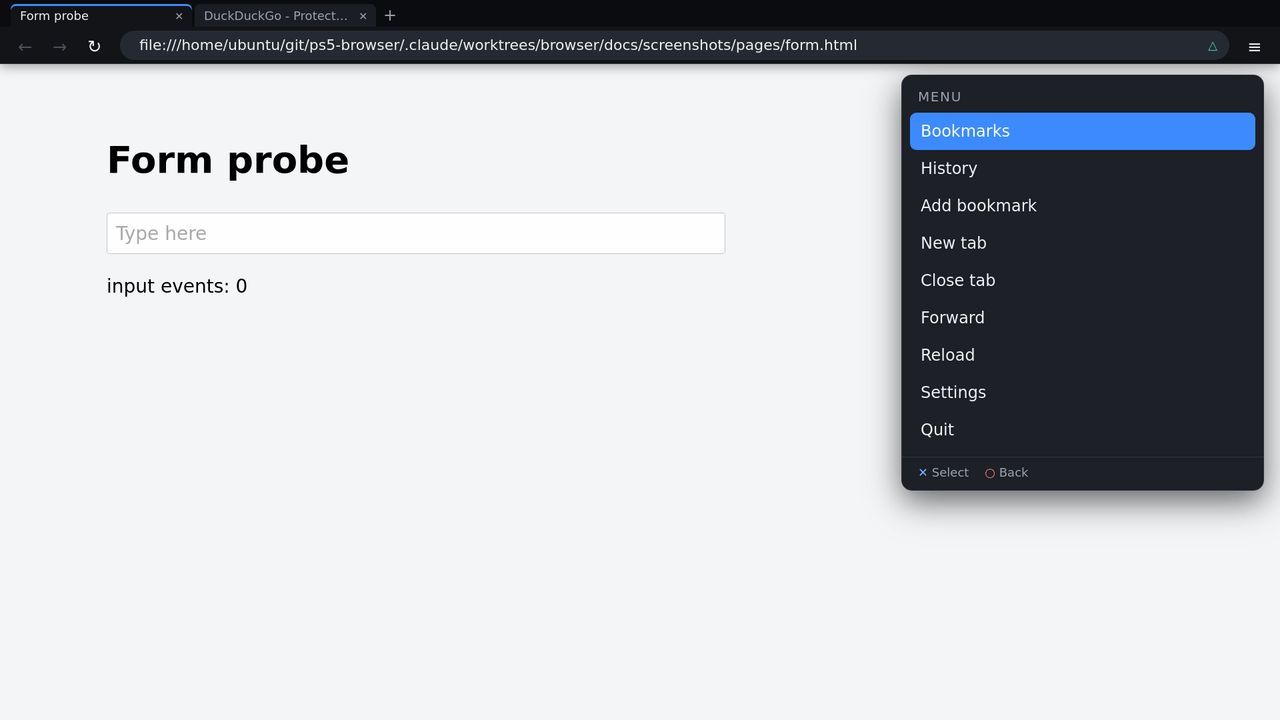
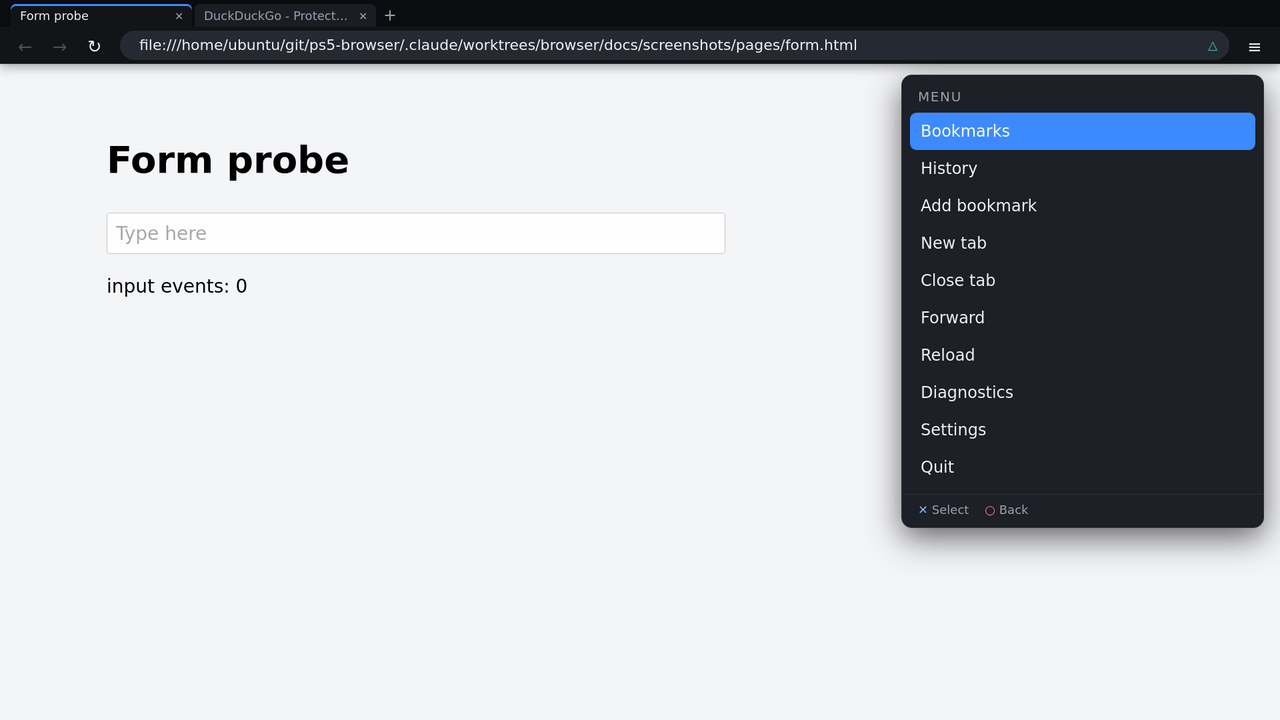
fix(ps5): deliver pointer clicks to the chrome view
Chrome: Cross over the band now activates the element under the pointer
through chrome.js click(x, y) (elementFromPoint + element.click(), the
path the host frontend already uses, also covering the address field)
instead of a synthesized press/release on the chrome WKView, which
produced no click on the console. A trusted move still precedes it for
:hover. chrome.js reports each activation and the frontend logs the
first ones ("chrome: click at x,y -> handler (target)").

Page: the shell sends move, press and release (clickCount 1) for Cross,
but patch 0011's WKPageHandleMouseEvent built libwpe events with time 0
and no button bits. libwpe's WebEventFactory derives clickCount from
the time, so every press within 5 px of the previous one counted as a
double/triple click (word/paragraph selection, the "selection works"
symptom), and mousedown reported buttons == 0. Events now carry a
monotonic time and the pressed-button state, as the WPE backends send.

For the next console run the page logs the first DOM pointerdown/
mousedown/mouseup/click/focusin events (target, detail, buttons,
isTrusted, defaultPrevented, activeElement) and the first presses and
releases it sends, to tell whether a click is generated and what gets
focus.

Assisted-by: LLM

Changed region(s): [[0.6875, 0.6417, 1.0, 0.7944], [0.7188, 0.5806, 0.7812, 0.6111], [0.7188, 0.5194, 0.7812, 0.55]]

diff --git a/src/chrome-ui/chrome.js b/src/chrome-ui/chrome.js
@@ -180,14 +180,26 @@
   }
 
   // Gamepad Cross over the chrome: activate the element under the pointer.
+  function describe(el) {
+    if (!el) return 'nothing';
+    var d = el.tagName.toLowerCase();
+    if (el.id) d += '#' + el.id;
+    var owner = el.closest('[id]');
+    if (owner && owner !== el) d += ' in #' + owner.id;
+    return d;
+  }
+
   function click(x, y) {
     var target = document.elementFromPoint(x, y);
-    if (!target) return;
-    if (target === $('address') || target.closest('#address-form')) {
+    var handler = !target ? 'none'
+      : (target === $('address') || target.closest('#address-form')) ? 'address_focus' : 'click';
+    // Frontends may log this; the shell ignores the type.
+    send({ type: 'click_trace', x: x, y: y, target: describe(target), handler: handler });
+    if (handler === 'address_focus') {
       send({ type: 'address_focus' });
-      return;
+    } else if (target) {
+      target.click();
     }
-    target.click();
   }
 
   // ---- Wiring ------------------------------------------------------------

diff --git a/src/frontend/ps5/ps5_chrome_ui.cpp b/src/frontend/ps5/ps5_chrome_ui.cpp
@@ -12,6 +12,8 @@ namespace ps5browser::frontend {
 
 namespace {
 
+constexpr int kClicksToLog = 8;
+
 // Shown when chrome.html is missing or fails to load: the active tab's title
 // and URL in the band, a pointer ring, and a hint to reinstall the chrome.
 // Gamepad shortcuts keep working; the controls of the real chrome do not.
@@ -58,9 +60,25 @@ Ps5ChromeUi::Ps5ChromeUi(WKContextRef context, WKWebsiteDataStoreRef data_store,
       return;
     }
     nlohmann::json doc = nlohmann::json::parse(json, nullptr, /*allow_exceptions=*/false);
-    if (!doc.is_discarded()) {
-      on_event_(doc);
+    if (doc.is_discarded()) {
+      return;
     }
+    const std::string type = doc.is_object() ? doc.value("type", std::string()) : std::string();
+    if (type == "click_trace") {
+      // chrome.js reports what a click activated; log the first few.
+      if (clicks_logged_ < kClicksToLog) {
+        ++clicks_logged_;
+        log_printf("chrome: click at %d,%d -> %s (%s)", doc.value("x", -1), doc.value("y", -1),
+                   doc.value("handler", std::string("?")).c_str(),
+                   doc.value("target", std::string("?")).c_str());
+      }
+      return;
+    }
+    if (!first_event_logged_) {
+      first_event_logged_ = true;
+      log_printf("chrome: first event from the chrome: %s", type.c_str());
+    }
+    on_event_(doc);
   };
   cb.load_finished = []() { log_line("chrome: navigation finished"); };
   cb.load_failed = [this](const std::string& url, const std::string& error) {
@@ -102,12 +120,19 @@ void Ps5ChromeUi::render(const nlohmann::json& state) {
 }
 
 void Ps5ChromeUi::click(int x, int y) {
-  // Window coordinates == chrome-local coordinates (the chrome view spans the
-  // whole surface). A synthesized click is acceptable here: this is our own UI
-  // and page input never goes through this path.
+  // Window coordinates == chrome-local CSS pixels (the chrome view spans the
+  // whole surface at scale 1). The trusted move keeps :hover right; the
+  // activation goes through chrome.js click(x, y) (elementFromPoint +
+  // element.click(), the path the host frontend uses), which does not depend
+  // on WebCore turning a synthesized press/release into a click and handles
+  // the address field. This is our own UI: user activation is not needed.
   web_->pointer_move(x, y);
-  web_->pointer_button(x, y, kWKEventMouseButtonLeftButton, true);
-  web_->pointer_button(x, y, kWKEventMouseButtonLeftButton, false);
+  web_->run_javascript("window.ps5chrome && window.ps5chrome.click(" + std::to_string(x) + "," +
+                       std::to_string(y) + ")");
+  if (clicks_logged_ < kClicksToLog && fallback_loaded_) {
+    ++clicks_logged_;
+    log_printf("chrome: click at %d,%d -> fallback chrome (no controls)", x, y);
+  }
 }
 
 }  // namespace ps5browser::frontend

diff --git a/src/frontend/ps5/ps5_app.cpp b/src/frontend/ps5/ps5_app.cpp
@@ -20,6 +20,41 @@ namespace ps5browser::frontend {
 
 namespace {
 
+// Console diagnostics: reports the first DOM pointer events of each document
+// (type, target, detail, buttons, isTrusted, defaultPrevented) through the
+// "ps5browser" handler as {type: 'input_trace'}; Ps5EngineView logs them.
+// Shows whether a press/release pair became a click and what got focus.
+constexpr const char* kInputTraceScript = R"JS((function () {
+  'use strict';
+  if (window !== window.top) return;
+  var left = 24;
+  function desc(e) {
+    if (!e || !e.tagName) return String(e && e.nodeName);
+    var d = e.tagName.toLowerCase();
+    if (e.id) d += '#' + e.id;
+    return d;
+  }
+  ['pointerdown', 'mousedown', 'mouseup', 'click', 'dblclick', 'focusin'].forEach(function (t) {
+    document.addEventListener(t, function (ev) {
+      if (left <= 0) return;
+      left--;
+      var target = ev.target;
+      setTimeout(function () {
+        try {
+          window.webkit.messageHandlers.ps5browser.postMessage({
+            type: 'input_trace', ev: t, target: desc(target),
+            x: ev.clientX === undefined ? -1 : ev.clientX, y: ev.clientY === undefined ? -1 : ev.clientY,
+            detail: ev.detail === undefined ? -1 : ev.detail, buttons: ev.buttons === undefined ? -1 : ev.buttons,
+            trusted: ev.isTrusted, prevented: ev.defaultPrevented,
+            active: desc(document.activeElement)
+          });
+        } catch (e) {}
+      }, 0);
+    }, true);
+  });
+})();
+)JS";
+
 constexpr const char* kBaseDir = kPs5DataDir;
 constexpr std::uint32_t kFrameMs = 16;  // ~60 Hz
 
@@ -173,7 +208,8 @@ int Ps5App::run() {
 
   std::vector<std::string> user_scripts = {core::kEmeDetectorScript,
                                            core::kFocusReporterScript,
-                                           core::kGamepadKeyBridgeScript};
+                                           core::kGamepadKeyBridgeScript,
+                                           kInputTraceScript};
   factory_ = std::make_unique<Ps5EngineFactory>(kBaseDir, user_scripts,
                                                 config_.user_agent);
   log_line("WebKit: context and data store created");

diff --git a/src/frontend/ps5/ps5_engine_view.cpp b/src/frontend/ps5/ps5_engine_view.cpp
@@ -12,11 +12,14 @@
 
 #include <nlohmann/json.hpp>
 
+#include "ps5_log.h"
 #include "wk_helpers.h"
 
 namespace ps5browser::frontend {
 
 namespace {
+
+constexpr int kButtonsToLog = 16;
 
 int to_wk_mouse_button(shell::MouseButton b) {
   switch (b) {
@@ -118,7 +121,12 @@ Ps5EngineView::Ps5EngineView(shell::EngineViewClient& client, WKContextRef conte
     // everything else (EME reports, ...) goes to the shell as is.
     const auto msg = nlohmann::json::parse(json, nullptr, /*allow_exceptions=*/false);
     const auto type = msg.is_object() ? msg.find("type") : msg.end();
+    if (type != msg.end() && *type == "input_trace") {
+      log_printf("page: dom %s", json.c_str());
+      return;
+    }
     if (type != msg.end() && *type == "focus") {
+      log_printf("page: focus report %s", json.c_str());
       const auto editable = msg.find("editable");
       client_.text_input_focused(editable != msg.end() && editable->is_boolean() &&
                                  editable->get<bool>());
@@ -145,6 +153,10 @@ void Ps5EngineView::set_visible(bool v) { web_->set_visible(v); }
 void Ps5EngineView::pointer_move(int x, int y) { web_->pointer_move(x, y); }
 
 void Ps5EngineView::pointer_button(int x, int y, shell::MouseButton button, bool pressed) {
+  if (buttons_logged_ < kButtonsToLog) {
+    ++buttons_logged_;
+    log_printf("page: %s at %d,%d", pressed ? "press" : "release", x, y);
+  }
   web_->pointer_button(x, y, to_wk_mouse_button(button), pressed);
 }
 

diff --git a/src/frontend/ps5/ps5_engine_view.h b/src/frontend/ps5/ps5_engine_view.h
@@ -47,6 +47,7 @@ class Ps5EngineView final : public shell::EngineView {
  private:
   shell::EngineViewClient& client_;
   std::unique_ptr<WkWebView> web_;
+  int buttons_logged_ = 0;  // console diagnostics: the first presses/releases
 };
 
 // Creates web-content views sharing one WKContext and website data store.

diff --git a/src/frontend/ps5/ps5_chrome_ui.h b/src/frontend/ps5/ps5_chrome_ui.h
@@ -41,6 +41,8 @@ class Ps5ChromeUi final : public shell::ChromeUi {
   EventHandler on_event_;
   std::unique_ptr<WkWebView> web_;
   bool fallback_loaded_ = false;
+  int clicks_logged_ = 0;
+  bool first_event_logged_ = false;
 };
 
 }  // namespace ps5browser::frontend

diff --git a/webkit-port/README.md b/webkit-port/README.md
@@ -33,7 +33,7 @@ Overlay that builds the upstream WebKit **PlayStation port** (`-DPORT=PlayStatio
 | `0008-skia-freebsd-malloc-usable-size` | `malloc_usable_size()` from `<malloc_np.h>` on FreeBSD |
 | `0009-webkit-static-injected-bundle` | injected bundle = weak `WKBundleInitialize` linked into the executable (no Sony `library-bundle.h`) |
 | `0010-webcore-timing-function-destructors` | out-of-line `*TimingFunction` destructors: clang 18 / PS5 target leaves the vtable-referenced destructors undefined |
-| `0011-webkit-playstation-page-api` | `WKPagePrivatePlayStation`: `WKPageSetDrawsTransparentBackground()` (transparent chrome view); the Skia background fill in `WKPagePaint` clipped to the unpainted rect; `WKPageHandleKeyboardEvent` forwards modifiers and event text (keysym in `virtualKeyCode`); `WKPageHandleWheelEvent` sends one precise-pixel 2D event, none for a zero delta |
+| `0011-webkit-playstation-page-api` | `WKPagePrivatePlayStation`: `WKPageSetDrawsTransparentBackground()` (transparent chrome view); the Skia background fill in `WKPagePaint` clipped to the unpainted rect; `WKPageHandleKeyboardEvent` forwards modifiers and event text (keysym in `virtualKeyCode`); `WKPageHandleWheelEvent` sends one precise-pixel 2D event, none for a zero delta; `WKPageHandleMouseEvent` gives events a real monotonic time (libwpe derives `clickCount` from it) and the pressed-button bits (`MouseEvent.buttons`) |
 | `0012-webcore-playstation-adwaita-theme` | form controls and scrollbars drawn by the Adwaita theme (`USE_THEME_ADWAITA`, set by patch 0001; `platform/Adwaita.cmake` and `themeAdwaita.css` included from `WebCore/CMakeLists.txt`): the upstream PlayStation `RenderTheme`/`Theme` are empty and `ControlFactory` falls back to `EmptyControlFactory`; the PlayStation theme singletons are compiled out, Adwaita's media controls and the coordinated async scrollbars (they need async scrolling) stay off |
 | `0900-ffmpeg-media-player` | `MediaPlayerPrivateFFmpeg` (`USE_FFMPEG`): software `<video>`/`<audio>` (progressive + HLS) on the SDK's ffmpeg; generated from `media/ffmpeg/`, edit there and run `media/sync-to-tree.sh` |
 
